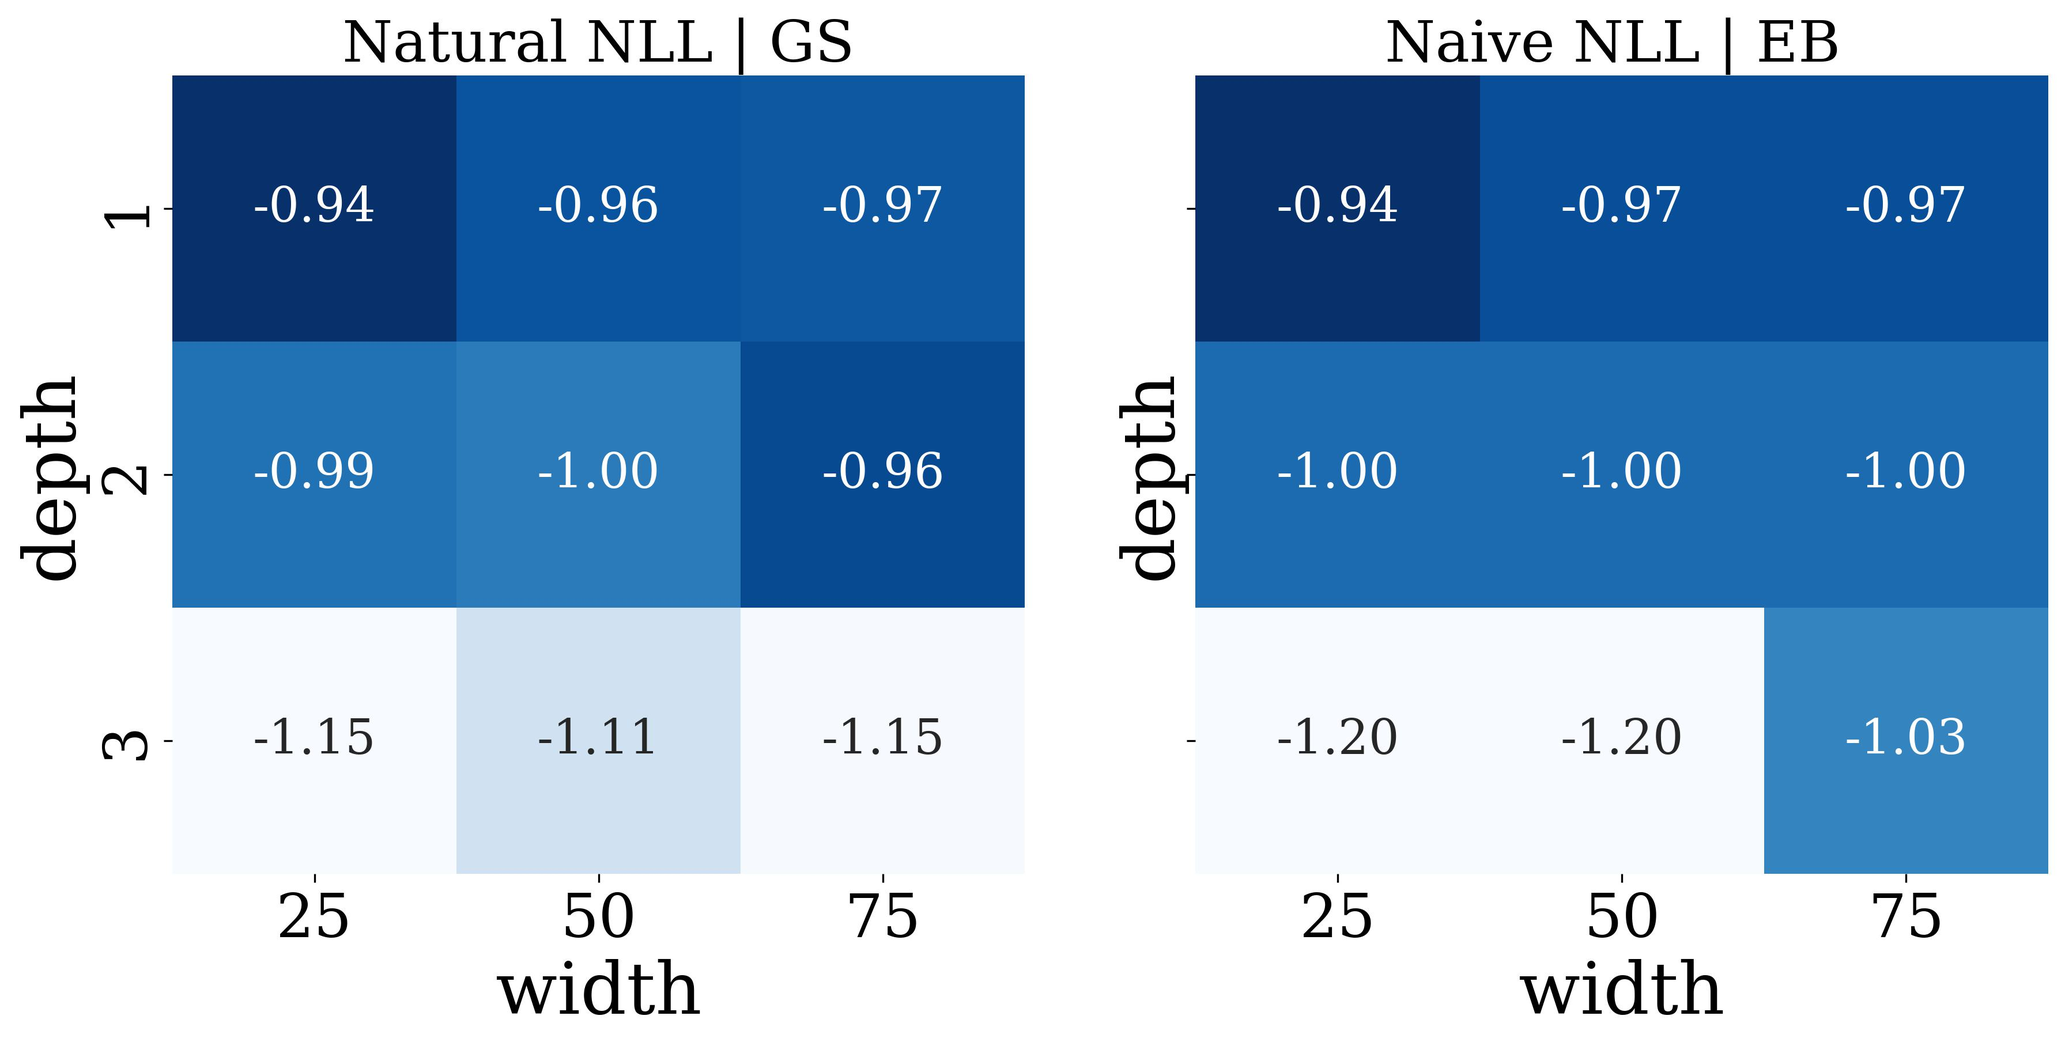
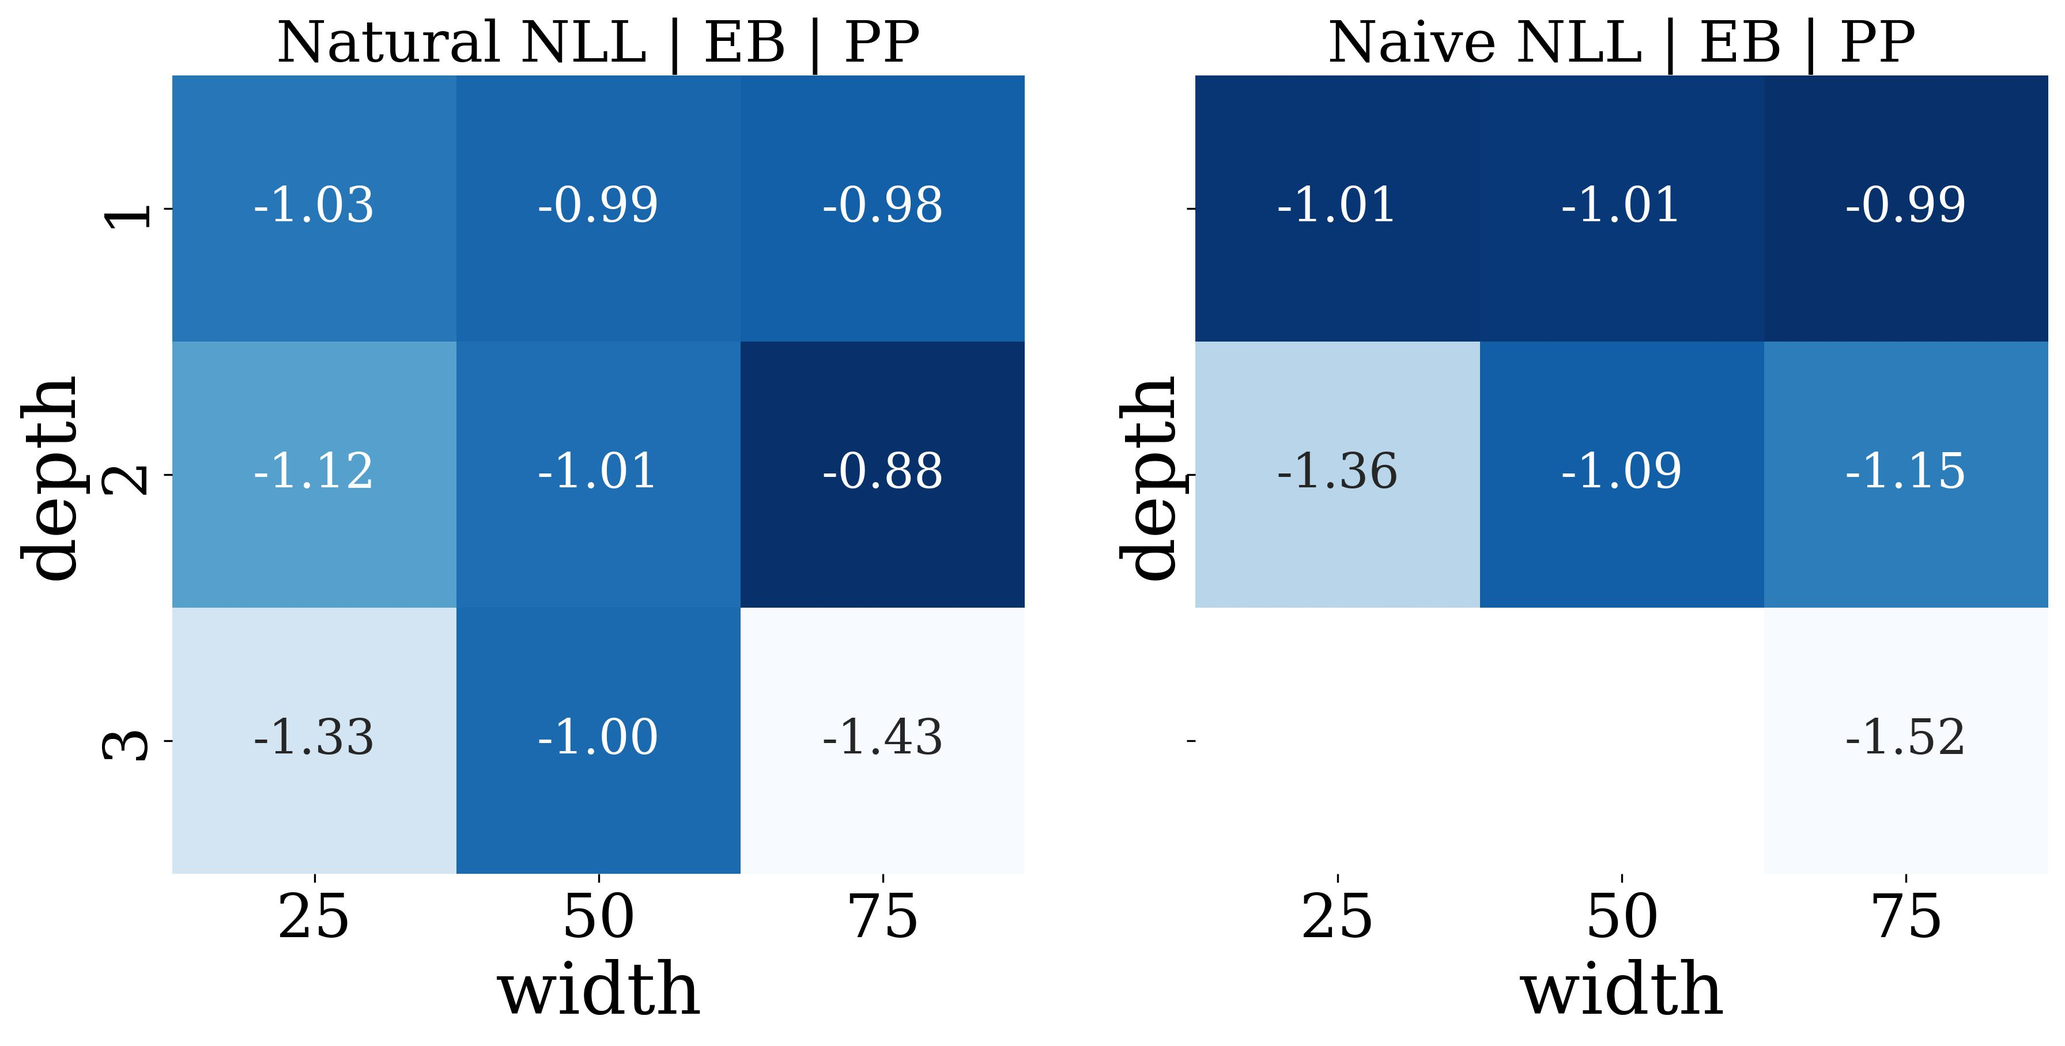
Update Notes

diff --git a/02-post-processing/outputs/output_03-image_table.tex b/02-post-processing/outputs/output_03-image_table.tex
@@ -4,21 +4,21 @@
 \label{tab:results}
 \begin{tabular}{|l|l|l|c|c|c|c|c|c|c|c|c|c|}
 \toprule
-        Objective & Regularization & Posterior Predictive &        mnist &       fmnist &      cifar10 & mnist-test/rmse & fmnist-test/rmse & cifar10-test/rmse & mnist-test/kl_div & fmnist-test/kl_div & cifar10-test/kl_div \\
+        Objective & Regularization & Posterior Predictive &                mnist &       fmnist &      cifar10 & mnist-test/rmse & fmnist-test/rmse & cifar10-test/rmse & mnist-test/kl_div & fmnist-test/kl_div & cifar10-test/kl_div \\
 \midrule
-    Homoscedastic &             EB &                    Y & -9.99 (4.46) & -4.45 (0.08) & -5.37 (0.00) &    13.84 (0.21) &     13.97 (0.01) &      52.12 (0.03) &       6.68 (4.29) &        1.30 (0.07) &         2.21 (0.00) \\
-        Naive NLL &             GS &                    N & -4.88 (0.49) & -4.12 (0.17) & -5.27 (0.11) &   33.59 (18.56) &     14.26 (0.01) &      47.49 (4.66) &       1.70 (0.51) &        0.93 (0.18) &         2.10 (0.11) \\
-$\beta$-NLL (0.5) &             GS &                    N & -4.01 (0.06) & -4.02 (0.01) & -5.18 (0.05) &    14.90 (0.55) &     16.36 (0.10) &      42.51 (1.74) &       0.84 (0.06) &        0.85 (0.01) &         2.02 (0.05) \\
-$\beta$-NLL (1.0) &             GS &                    N & -4.24 (0.04) & -4.03 (0.02) & -5.14 (0.03) &    17.51 (1.00) &     13.96 (0.20) &      42.22 (0.05) &       1.07 (0.05) &        0.86 (0.02) &         1.98 (0.03) \\
-         Faithful &             GS &                    N & -4.23 (0.08) & -4.38 (0.12) & -5.32 (0.00) &    16.48 (1.04) &     18.35 (3.38) &      42.98 (0.00) &       1.06 (0.09) &        1.22 (0.12) &         2.15 (0.00) \\
-       MC-Dropout &             GS &                    N & -4.13 (0.00) & -3.76 (0.05) & -6.39 (0.18) &    17.09 (0.10) &     16.16 (0.53) &    193.91 (24.30) &       0.96 (0.01) &        0.60 (0.06) &         3.23 (0.18) \\
-               VI &             GS &                    N & -4.18 (0.01) & -4.18 (0.28) & -5.07 (0.02) &    15.89 (0.09) &     21.90 (3.73) &      38.55 (1.15) &       1.02 (0.02) &        1.02 (0.28) &         1.91 (0.01) \\
-        Naive NLL &             EB &                    Y & -3.94 (0.01) & -3.88 (0.03) & -5.07 (0.01) &    14.28 (0.01) &     15.11 (0.14) &      39.57 (0.34) &       0.77 (0.01) &        0.64 (0.02) &         1.84 (0.00) \\
-        Naive NLL &             EB &                    N & -3.93 (0.02) & -3.81 (0.03) & -5.00 (0.00) &    14.28 (0.01) &     15.11 (0.14) &      39.57 (0.34) &       0.77 (0.01) &        0.64 (0.02) &         1.84 (0.00) \\
-      Natural NLL &             GS &                    Y & -4.16 (0.02) & -3.68 (0.00) & -4.92 (0.00) &    16.14 (0.39) &     14.64 (0.31) &      36.36 (0.06) &       0.99 (0.02) &        0.63 (0.01) &         1.76 (0.01) \\
-      Natural NLL &             GS &                    N & -4.16 (0.02) & -3.81 (0.01) & -4.93 (0.00) &    16.14 (0.39) &     14.64 (0.31) &      36.36 (0.06) &       0.99 (0.02) &        0.63 (0.01) &         1.76 (0.01) \\
-      Natural NLL &             EB &                    Y & -3.82 (0.04) & -3.67 (0.01) & -5.73 (0.36) &    13.02 (0.05) &     14.91 (0.09) &      45.53 (6.63) &       0.88 (0.12) &        0.61 (0.03) &         3.57 (1.35) \\
-      Natural NLL &             EB &                    N & -4.06 (0.09) & -3.78 (0.02) & -6.71 (1.33) &    13.02 (0.05) &     14.91 (0.09) &      45.53 (6.63) &       0.88 (0.12) &        0.61 (0.03) &         3.57 (1.35) \\
+    Homoscedastic &             EB &                    Y &         -9.99 (4.46) & -4.45 (0.08) & -5.37 (0.00) &    13.84 (0.21) &     13.97 (0.01) &      52.12 (0.03) &       6.68 (4.29) &        1.30 (0.07) &         2.21 (0.00) \\
+        Naive NLL &             GS &                    N & -25492.14 (23369.39) & -5.25 (0.20) & -7.69 (0.04) &    14.56 (0.23) &     13.87 (0.17) &      41.36 (0.01) &         nan (nan) &        2.08 (0.21) &         4.54 (0.04) \\
+$\beta$-NLL (0.5) &             GS &                    N &         -4.01 (0.06) & -4.02 (0.01) & -5.18 (0.05) &    14.90 (0.55) &     16.36 (0.10) &      42.51 (1.74) &       0.84 (0.06) &        0.85 (0.01) &         2.02 (0.05) \\
+$\beta$-NLL (1.0) &             GS &                    N &         -4.24 (0.04) & -4.03 (0.02) & -5.14 (0.03) &    17.51 (1.00) &     13.96 (0.20) &      42.22 (0.05) &       1.07 (0.05) &        0.86 (0.02) &         1.98 (0.03) \\
+         Faithful &             GS &                    N &         -4.23 (0.08) & -4.38 (0.12) & -5.32 (0.00) &    16.48 (1.04) &     18.35 (3.38) &      42.98 (0.00) &       1.06 (0.09) &        1.22 (0.12) &         2.15 (0.00) \\
+       MC-Dropout &             GS &                    N &         -4.13 (0.00) & -3.76 (0.05) & -6.39 (0.18) &    17.09 (0.10) &     16.16 (0.53) &    193.91 (24.30) &       0.96 (0.01) &        0.60 (0.06) &         3.23 (0.18) \\
+               VI &             GS &                    N &         -4.18 (0.01) & -4.18 (0.28) & -5.07 (0.02) &    15.89 (0.09) &     21.90 (3.73) &      38.55 (1.15) &       1.02 (0.02) &        1.02 (0.28) &         1.91 (0.01) \\
+        Naive NLL &             EB &                    Y &         -3.94 (0.01) & -3.88 (0.03) & -5.07 (0.01) &    14.28 (0.01) &     15.11 (0.14) &      39.57 (0.34) &       0.77 (0.01) &        0.64 (0.02) &         1.84 (0.00) \\
+        Naive NLL &             EB &                    N &         -4.88 (0.49) & -4.12 (0.17) & -5.27 (0.11) &   33.59 (18.56) &     14.26 (0.01) &      47.49 (4.66) &       1.70 (0.51) &        0.93 (0.18) &         2.10 (0.11) \\
+      Natural NLL &             GS &                    Y &         -4.16 (0.02) & -3.68 (0.00) & -4.92 (0.00) &    16.14 (0.39) &     14.64 (0.31) &      36.36 (0.06) &       0.99 (0.02) &        0.63 (0.01) &         1.76 (0.01) \\
+      Natural NLL &             GS &                    N &         -4.16 (0.02) & -3.81 (0.01) & -4.93 (0.00) &    16.14 (0.39) &     14.64 (0.31) &      36.36 (0.06) &       0.99 (0.02) &        0.63 (0.01) &         1.76 (0.01) \\
+      Natural NLL &             EB &                    Y &         -3.82 (0.04) & -3.67 (0.01) & -5.73 (0.36) &    13.02 (0.05) &     14.91 (0.09) &      45.53 (6.63) &       0.88 (0.12) &        0.61 (0.03) &         3.57 (1.35) \\
+      Natural NLL &             EB &                    N &         -4.06 (0.09) & -3.78 (0.02) & -6.71 (1.33) &    13.02 (0.05) &     14.91 (0.09) &      45.53 (6.63) &       0.88 (0.12) &        0.61 (0.03) &         3.57 (1.35) \\
 \bottomrule
 \end{tabular}
 \end{table}

diff --git a/02-post-processing/05-train-param.py b/02-post-processing/05-train-param.py
@@ -25,9 +25,9 @@ print(f"[IO] JOB {len(data)}/{len(data)} SORTED")
 # HYPER-PARAM
 #----------------------------
 CASES = [
-            'natural_eb',
-            # 'naive_eb',        
-            'natural_gs',        
+            'natural_eb_pp',
+            'naive_eb_pp',        
+            # 'natural_gs_pp',        
         ]
 
 configs = model_configs['natural_gs_pp']
@@ -79,84 +79,84 @@ for il,case in enumerate(CASES):
 
 fig.savefig('figs/05-param-study-lr-batch.jpg',bbox_inches='tight',dpi=300)
 
-#---------------------------------------------------------------------
-fig, axs= plt.subplots(1,2,figsize=(14, 6),sharex=True,sharey=True)
-for il,case in enumerate(CASES):
-    configs = model_configs[case]
+# #---------------------------------------------------------------------
+# fig, axs= plt.subplots(1,2,figsize=(14, 6),sharex=True,sharey=True)
+# for il,case in enumerate(CASES):
+#     configs = model_configs[case]
 
-    param_data_ = param_data[(param_data['test/loglik'] > -10) &\
-                            (param_data['activation'] == 'gelu') &\
-                            (param_data['likelihood'] == configs['likelihood']) &\
-                            (param_data['head'] == configs['head']) &\
-                            (param_data['method'] == configs['method']) &\
-                            (param_data['lr_hyp_min'] == 1e-3) &\
-                            (param_data['lr_hyp'] == 1e-2)
-                            ]
+#     param_data_ = param_data[(param_data['test/loglik'] > -10) &\
+#                             (param_data['activation'] == 'gelu') &\
+#                             (param_data['likelihood'] == configs['likelihood']) &\
+#                             (param_data['head'] == configs['head']) &\
+#                             (param_data['method'] == configs['method']) &\
+#                             (param_data['lr_hyp_min'] == 1e-3) &\
+#                             (param_data['lr_hyp'] == 1e-2)
+#                             ]
 
-    # Re-pivot data for heatmap analysis
-    heatmap_data_cleaned = param_data_.pivot_table(
-        index='lr_min', 
-        columns='lr', 
-        values=configs['result'], 
-        aggfunc='mean')
+#     # Re-pivot data for heatmap analysis
+#     heatmap_data_cleaned = param_data_.pivot_table(
+#         index='lr_min', 
+#         columns='lr', 
+#         values=configs['result'], 
+#         aggfunc='mean')
 
-    sns.heatmap(heatmap_data_cleaned, 
-                annot=True, 
-                cmap='Greens', 
-                fmt=".2f", 
-                cbar=False,
-                ax=axs[il],
-                # cbar_kws={'label': 'LL'},
-                )
+#     sns.heatmap(heatmap_data_cleaned, 
+#                 annot=True, 
+#                 cmap='Greens', 
+#                 fmt=".2f", 
+#                 cbar=False,
+#                 ax=axs[il],
+#                 # cbar_kws={'label': 'LL'},
+#                 )
 
-    axs[il].set(
-        **{
-        'xlabel':'max lr',
-        'ylabel':'min lr',
-        'title':configs['label'],
-        }
-        )
+#     axs[il].set(
+#         **{
+#         'xlabel':'max lr',
+#         'ylabel':'min lr',
+#         'title':configs['label'],
+#         }
+#         )
 
-fig.savefig('figs/05-param-study-lr.jpg',bbox_inches='tight',dpi=300)
+# fig.savefig('figs/05-param-study-lr.jpg',bbox_inches='tight',dpi=300)
 
-fig, axs= plt.subplots(1,2,figsize=(14, 6),sharex=True,sharey=True)
-#---------------------------------------------------------------------
-for il,case in enumerate(CASES):
-    configs = model_configs[case]
+# fig, axs= plt.subplots(1,2,figsize=(14, 6),sharex=True,sharey=True)
+# #---------------------------------------------------------------------
+# for il,case in enumerate(CASES):
+#     configs = model_configs[case]
 
-    param_data_ = param_data[(param_data['test/loglik'] > -10) &\
-                            (param_data['activation'] == 'gelu') &\
-                            (param_data['likelihood'] == configs['likelihood']) &\
-                            (param_data['head'] == configs['head']) &\
-                            (param_data['method'] == configs['method']) &\
-                            (param_data['lr_min'] == 1e-5) &\
-                            (param_data['lr'] == 1e-3) &\
-                            (param_data['batch_size'] == 256) 
-                            ]
+#     param_data_ = param_data[(param_data['test/loglik'] > -10) &\
+#                             (param_data['activation'] == 'gelu') &\
+#                             (param_data['likelihood'] == configs['likelihood']) &\
+#                             (param_data['head'] == configs['head']) &\
+#                             (param_data['method'] == configs['method']) &\
+#                             (param_data['lr_min'] == 1e-5) &\
+#                             (param_data['lr'] == 1e-3) &\
+#                             (param_data['batch_size'] == 256) 
+#                             ]
 
-    # Re-pivot data for heatmap analysis
-    heatmap_data_cleaned = param_data_.pivot_table(
-        index='lr_hyp_min', 
-        columns='lr_hyp', 
-        values=configs['result'], 
-        aggfunc='mean')
+#     # Re-pivot data for heatmap analysis
+#     heatmap_data_cleaned = param_data_.pivot_table(
+#         index='lr_hyp_min', 
+#         columns='lr_hyp', 
+#         values=configs['result'], 
+#         aggfunc='mean')
 
-    sns.heatmap(heatmap_data_cleaned, 
-                annot=True, 
-                cmap='Greens', 
-                fmt=".2f", 
-                cbar=False,
-                ax=axs[il],
-                # cbar_kws={'label': 'LL'},
-                )
+#     sns.heatmap(heatmap_data_cleaned, 
+#                 annot=True, 
+#                 cmap='Greens', 
+#                 fmt=".2f", 
+#                 cbar=False,
+#                 ax=axs[il],
+#                 # cbar_kws={'label': 'LL'},
+#                 )
 
-    axs[il].set(
-        **{
-        'xlabel':'max hyper lr',
-        'ylabel':'min hyper lr',
-        'title':configs['label'],
-        }
-        )
+#     axs[il].set(
+#         **{
+#         'xlabel':'max hyper lr',
+#         'ylabel':'min hyper lr',
+#         'title':configs['label'],
+#         }
+#         )
 
-fig.savefig('figs/05-param-study-hyp_lr.jpg',bbox_inches='tight',dpi=300)
+# fig.savefig('figs/05-param-study-hyp_lr.jpg',bbox_inches='tight',dpi=300)
 

diff --git a/02-post-processing/02-read-crispr-data.py b/02-post-processing/02-read-crispr-data.py
@@ -24,22 +24,36 @@ del model_configs['mcdropout']
 # Initialize DataFrame
 table_updated = pd.DataFrame(columns=["Objective", "Regularization", "Posterior Predictive"] + CRISPR)
 
+
+fig, axs = plt.subplots(1,3,figsize=(16,6),sharey=True)
+
 # Traversing all the database
 for jl, dataset in enumerate(CRISPR):
   data_class = finished_data[(finished_data['dataset'] == dataset)]
-  
+
   # Make plot for this 
   plot_data = {'name':[],'data':[]}
   for il, nn in enumerate(model_configs.keys()):
+    
     data = data_class[(data_class['method']==model_configs[nn]['method']) &\
                       (data_class['head']==model_configs[nn]['head']) &\
                       (data_class['likelihood']==model_configs[nn]['likelihood'])
                       ]
+    
     if 'beta' in nn: 
       data = data[data['beta']==model_configs[nn]['beta']]
     result_arrary=data[model_configs[nn]['result']].to_numpy() 
     # get rid of the abnormal data 
-    result_arrary = result_arrary[np.where(result_arrary >=-5.0)]
+    if nn !='homo' and nn !='naive_eb_pp':
+      result_arrary = result_arrary[np.where(result_arrary >=-1.0)]
+    elif nn=='homo':
+      result_arrary = result_arrary* 0.2
+    elif nn == 'naive_eb_pp': 
+      if jl < 2:
+        result_arrary = result_arrary* 0.5
+      else:
+        result_arrary = result_arrary* 0.2
+
     result_arrary_mean = result_arrary.mean()
     result_arrary_std  = result_arrary.std()
     print(f'[IO] Dataset:{dataset}, Method ={nn}, NLL={result_arrary_mean} std = {result_arrary_std}')
@@ -55,8 +69,8 @@ for jl, dataset in enumerate(CRISPR):
   plot_data['data'].reverse()
   plot_data['name'].reverse()
   
-  fig, axs = plt.subplots(1,1,figsize=(6,8))
-  bplot = axs.boxplot(
+  # fig, axs = plt.subplots(1,1,figsize=(6,8))
+  bplot = axs[jl].boxplot(
     plot_data['data'],
     vert=False,  # Horizontal box plot
     patch_artist=True,  # Enable custom colors
@@ -68,12 +82,12 @@ for jl, dataset in enumerate(CRISPR):
     patch.set_facecolor(color)
 
   # Add labels and title
-  axs.set_yticks(range(1, len(plot_data['data']) + 1))
-  axs.set_yticklabels(plot_data['name'])
-  axs.set_xlabel("LL")
-  axs.set_title(dataset)
+  axs[0].set_yticks(range(1, len(plot_data['data']) + 1))
+  axs[0].set_yticklabels(plot_data['name'])
+  axs[jl].set_xlabel("LL")
+  axs[jl].set_title(dataset)
 
-  fig.savefig(f'figs/02-CRIPR-BAR-{dataset}.jpg',bbox_inches='tight',dpi=300)
+fig.savefig(f'figs/02-CRIPR-BAR-ALL.jpg',bbox_inches='tight',dpi=300)
 
 
 

diff --git a/02-post-processing/06-marglik-param.py b/02-post-processing/06-marglik-param.py
@@ -25,9 +25,9 @@ print(f"[IO] JOB {len(data)}/{len(data)} SORTED")
 # HYPER-PARAM
 #----------------------------
 CASES = [
-            'natural_eb',
-            # 'naive_eb',        
-            'natural_gs',        
+            'natural_eb_pp',
+            'naive_eb_pp',        
+            # 'natural_gs_pp',        
         ]
 
 configs = model_configs['natural_gs_pp']
@@ -82,3 +82,45 @@ for il,case in enumerate(CASES):
         )
 
 fig.savefig('figs/06-param-study-Marglik-Freq-Hypersteps.jpg',bbox_inches='tight',dpi=300)
+
+
+fig, axs= plt.subplots(1,2,figsize=(14, 6),sharex=True,sharey=True)
+
+#---------------------------------------------------------------------
+for il,case in enumerate(CASES):
+    configs = model_configs[case]
+
+    param_data_ = param_data[
+                            (param_data['activation'] == 'gelu') &\
+                            (param_data['likelihood'] == configs['likelihood']) &\
+                            (param_data['head'] == configs['head']) &\
+                            (param_data['method'] == configs['method']) &\
+                            (param_data['marglik_frequency'] == 50)
+                            # (param_data['n_hypersteps'] == 50)
+                            ]
+
+    # Re-pivot data for heatmap analysis
+    heatmap_data_cleaned = param_data_.pivot_table(
+        index='n_hypersteps', 
+        columns='approx', 
+        values=configs['result'], 
+        aggfunc='mean')
+
+    sns.heatmap(heatmap_data_cleaned, 
+                annot=True, 
+                cmap='Reds', 
+                fmt=".3f", 
+                cbar=False,
+                ax=axs[il],
+                # cbar_kws={'label': 'LL'},
+                )
+
+    axs[il].set(
+        **{
+        'xlabel':'Laplacian Approx',
+        'ylabel':'Hyper Steps',
+        'title':configs['label'],
+        }
+        )
+
+fig.savefig('figs/06-param-study-Approx-Hypersteps.jpg',bbox_inches='tight',dpi=300)

diff --git a/02-post-processing/outputs/output_02-crispr_table.tex b/02-post-processing/outputs/output_02-crispr_table.tex
@@ -6,13 +6,13 @@
 \toprule
         Objective & Regularization & Posterior Predictive & flow-cytometry-HEK293 & survival-screen-A375 & survival-screen-HEK293 \\
 \midrule
-    Homoscedastic &             EB &                    Y &          -3.52 (1.30) &         -2.16 (0.23) &           -2.22 (1.17) \\
+    Homoscedastic &             EB &                    Y &          -0.70 (0.26) &         -0.43 (0.05) &           -0.60 (0.34) \\
         Naive NLL &             GS &                    N &          -0.67 (0.05) &         -0.28 (0.01) &           -0.34 (0.04) \\
 $\beta$-NLL (0.5) &             GS &                    N &          -0.39 (0.01) &         -0.23 (0.01) &           -0.23 (0.01) \\
 $\beta$-NLL (1.0) &             GS &                    N &          -0.41 (0.02) &         -0.24 (0.01) &           -0.25 (0.04) \\
          Faithful &             GS &                    N &          -0.39 (0.05) &         -0.27 (0.01) &           -0.29 (0.02) \\
                VI &             GS &                    N &          -0.40 (0.03) &         -0.26 (0.01) &           -0.26 (0.03) \\
-        Naive NLL &             EB &                    Y &          -1.38 (0.15) &         -0.59 (0.19) &           -1.80 (1.23) \\
+        Naive NLL &             EB &                    Y &          -0.69 (0.08) &         -0.29 (0.10) &           -0.36 (0.25) \\
         Naive NLL &             EB &                    N &          -0.34 (0.01) &         -0.23 (0.01) &           -0.18 (0.02) \\
       Natural NLL &             GS &                    Y &          -0.24 (0.05) &         -0.25 (0.01) &           -0.13 (0.02) \\
       Natural NLL &             GS &                    N &          -0.32 (0.07) &         -0.25 (0.01) &           -0.18 (0.03) \\

diff --git a/02-post-processing/04-arch-param.py b/02-post-processing/04-arch-param.py
@@ -25,8 +25,8 @@ print(f"[IO] JOB {len(data)}/{len(data)} SORTED")
 # HYPER-PARAM
 #----------------------------
 CASES = [
-            'natural_gs',
-            'naive_eb'        
+            'natural_eb_pp',
+            'naive_eb_pp'        
         ]
 
 configs = model_configs['natural_gs_pp']
@@ -46,7 +46,7 @@ fig, axs= plt.subplots(1,2,figsize=(14, 6),sharex=True,sharey=True)
 for il,case in enumerate(CASES):
     configs = model_configs[case]
 
-    param_data_ = param_data[(param_data['test/loglik'] > -10) &\
+    param_data_ = param_data[(param_data['test/loglik_bayes'] > -2) &\
                             (param_data['activation'] == 'gelu') &\
                             (param_data['likelihood'] == configs['likelihood']) &\
                             (param_data['head'] == configs['head']) &\

diff --git a/02-post-processing/03-read-ImageRegression.py b/02-post-processing/03-read-ImageRegression.py
@@ -56,6 +56,7 @@ for method in Methods:
             
             for kl, metric in enumerate(metrics):
                 result_arrary=data[metric].to_numpy() 
+                result_arrary = result_arrary[np.where(result_arrary < 1000.0)]
                 result_arrary_mean = result_arrary.mean()
                 result_arrary_std  = result_arrary.std()
                 table_updated.loc[il,dataset+ "-" +metric]=f"{result_arrary_mean:.2f} ({result_arrary_std:.2f})"
